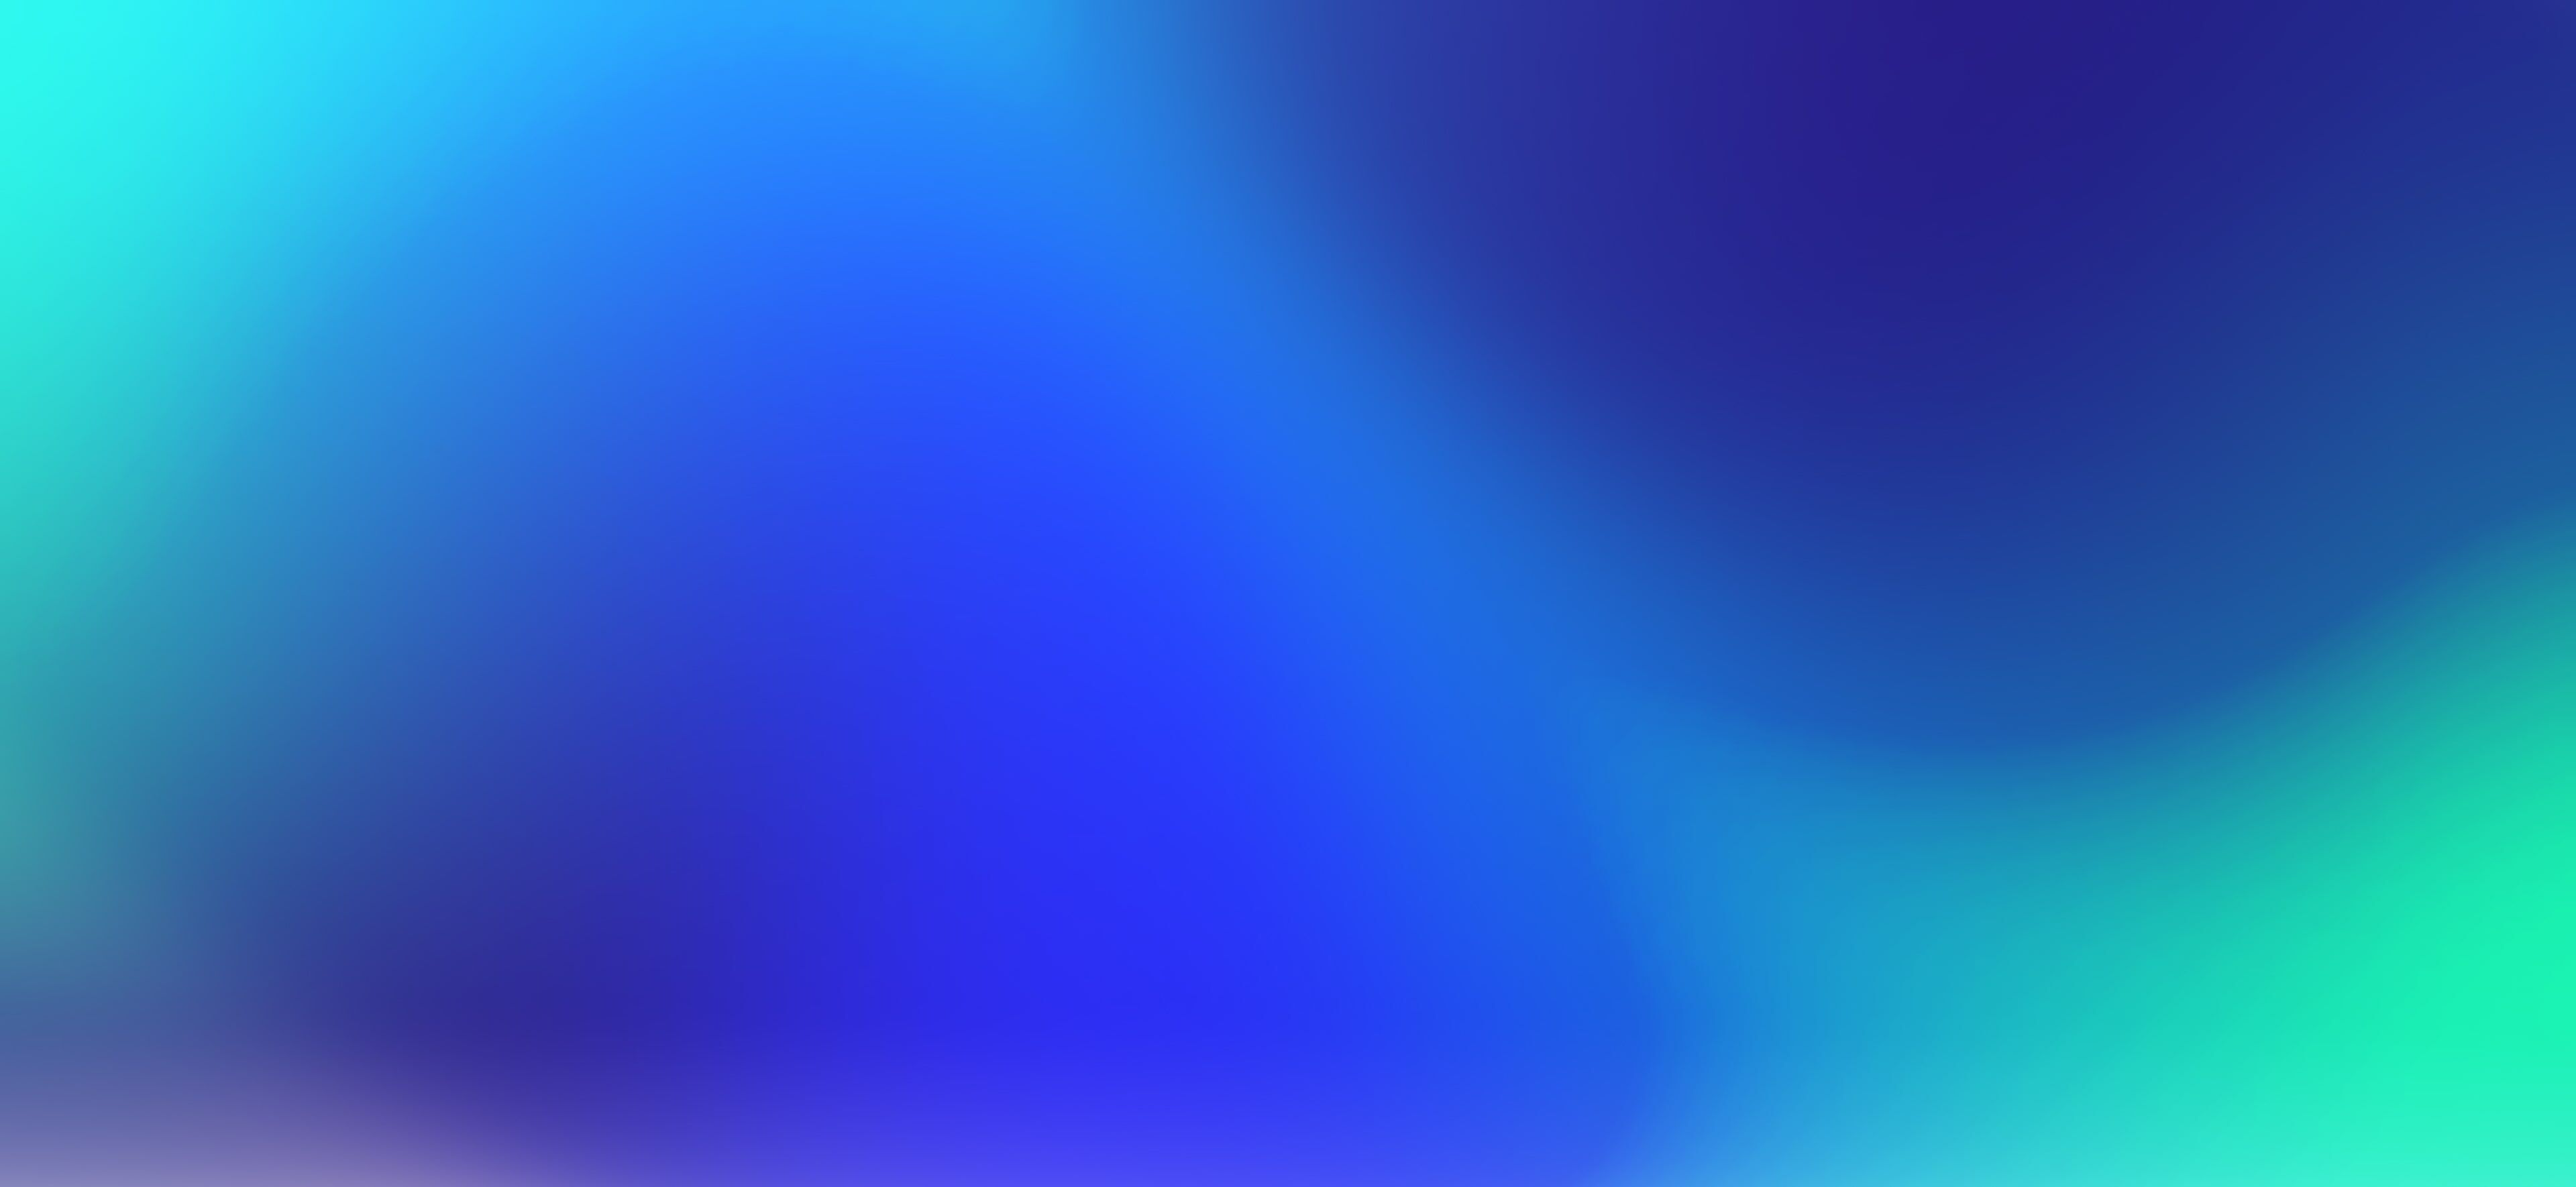
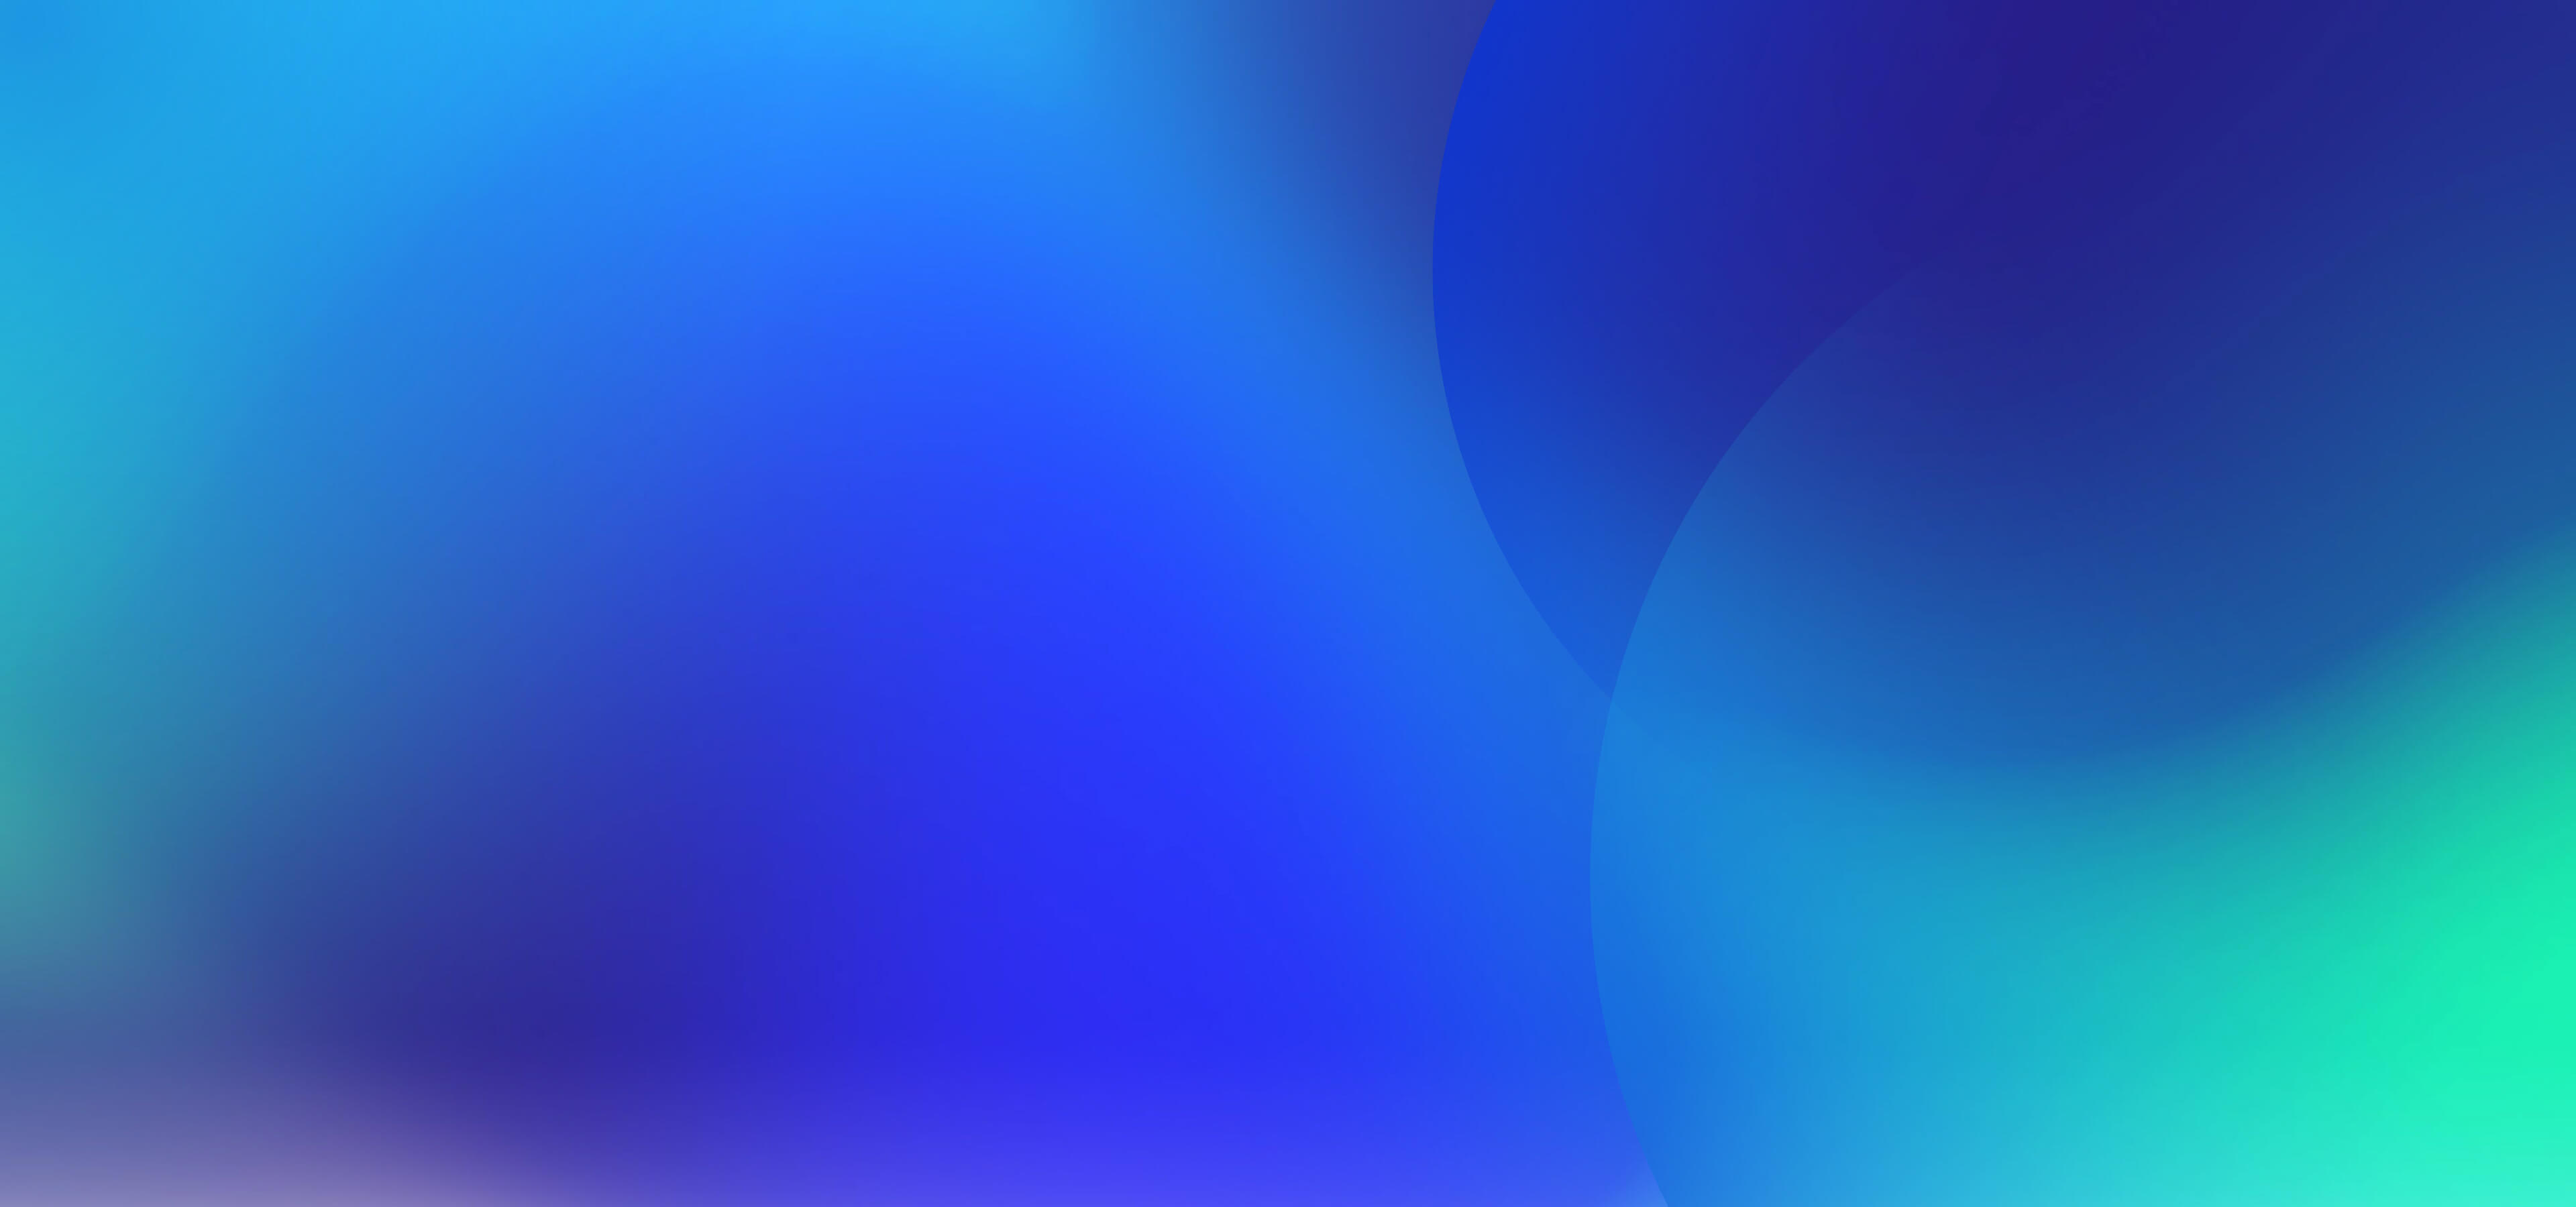
update veeam survey

Changed region(s): [[0.0, 0.0, 0.2188, 0.4661], [0.5312, 0.0, 0.6875, 0.2797], [0.6562, 0.9944, 0.75, 1.0]]

diff --git a/2023_Veeam_Cloud_Survey/style.css b/2023_Veeam_Cloud_Survey/style.css
@@ -23,7 +23,7 @@ body {
   position: absolute;
 }
 .full_wrap .bg .bgcnt.bc1 {
-  left: 0;
+  right: 0;
   top: 0;
   z-index: 5;
   width: 100%;
@@ -39,7 +39,7 @@ body {
   background: url("img/SVG/bgcnt2.svg") right center/cover no-repeat;
 }
 .full_wrap .bg .bgcnt.bc3 {
-  left: 0;
+  right: 0;
   bottom: 0;
   z-index: 2;
   width: 100%;
@@ -75,7 +75,7 @@ body {
   font-size: 1.675em;
   font-weight: 500;
   line-height: 1;
-  background: linear-gradient(120deg, #f4e891, #00b336 20%, #005f4b, #93ea20, #06fed1) 0 0/200% 100%;
+  background: linear-gradient(120deg, #fff, #4ddb87, #00d15f, #4ddb87, #fff) 0 0/200% 100%;
   color: #fff;
   font-family: "Ubuntu", "Noto Sans TC", sans-serif;
   -webkit-transition: background 300ms;
@@ -96,7 +96,7 @@ body {
   letter-spacing: 0.25em;
 }
 .cta .bttn:active {
-  background: #00655c;
+  background: #3d019e;
 }
 
 .g_kv {
@@ -105,31 +105,31 @@ body {
   background: linear-gradient(rgba(61, 1, 158, 0) 50%, rgba(61, 1, 158, 0.5));
   z-index: 2;
 }
-.g_kv .kv_desktop {
+.g_kv .kv {
   position: relative;
   height: 100vh;
 }
-.g_kv .kv_desktop img {
+.g_kv .kv img {
   display: block;
   max-width: 100%;
 }
-.g_kv .kv_desktop .kvlogo,
-.g_kv .kv_desktop .kvtit,
-.g_kv .kv_desktop .kvpic {
+.g_kv .kv .kvlogo,
+.g_kv .kv .kvtit,
+.g_kv .kv .kvpic {
   position: absolute;
   display: block;
 }
-.g_kv .kv_desktop .kvlogo {
+.g_kv .kv .kvlogo {
   left: 8.3333333333%;
   top: 9.2592592593%;
   width: 16.6666666667%;
 }
-.g_kv .kv_desktop .kvtit {
+.g_kv .kv .kvtit {
   left: 10%;
   top: 28%;
   width: 60%;
 }
-.g_kv .kv_desktop .kvpic {
+.g_kv .kv .kvpic {
   right: 5%;
   width: 36%;
   top: 50%;
@@ -242,7 +242,7 @@ body {
   -webkit-box-align: center;
       -ms-flex-align: center;
           align-items: center;
-  background-color: #00655c;
+  background: linear-gradient(135deg, #4ddb87 15%, #00d15f 15%, #00d15f 85%, #4ddb87 85%);
   color: #fff;
   border-radius: 6px;
 }
@@ -472,17 +472,22 @@ body {
 
 @media (max-width: 767px) {
   .full_wrap .bg .bgcnt.bc1 {
-    width: 125%;
-    padding-top: 100%;
+    right: -30%;
+    width: 200%;
+    padding-top: 160%;
   }
   .full_wrap .bg .bgcnt.bc2 {
-    top: 52vw;
-    width: 100%;
-    padding-top: 100%;
+    top: 60vw;
+    width: 150%;
+    padding-top: 150%;
   }
   .full_wrap .bg .bgcnt.bc3 {
-    width: 120%;
-    padding-top: 120%;
+    width: 150%;
+    padding-top: 150%;
+  }
+  .g_kv {
+    background: -webkit-gradient(linear, left top, left bottom, color-stop(50%, rgba(61, 1, 158, 0)), to(rgba(61, 1, 158, 0.7)));
+    background: linear-gradient(rgba(61, 1, 158, 0) 50%, rgba(61, 1, 158, 0.7));
   }
   .g_kv .kv_desktop {
     height: 60vh;
@@ -519,8 +524,8 @@ body {
     background: url("img/SVG/bgcnt3.svg") right bottom no-repeat;
   }
   .main_content {
-    background: -webkit-gradient(linear, left top, left bottom, from(rgba(61, 1, 158, 0.5)), color-stop(25%, rgba(61, 1, 158, 0.8)), color-stop(40%, rgba(61, 1, 158, 0.8)));
-    background: linear-gradient(rgba(61, 1, 158, 0.5), rgba(61, 1, 158, 0.8) 25%, rgba(61, 1, 158, 0.8) 40%);
+    background: -webkit-gradient(linear, left top, left bottom, from(rgba(61, 1, 158, 0.7)), color-stop(20%, rgba(61, 1, 158, 0.9)), color-stop(40%, rgba(61, 1, 158, 0.9)));
+    background: linear-gradient(rgba(61, 1, 158, 0.7), rgba(61, 1, 158, 0.9) 20%, rgba(61, 1, 158, 0.9) 40%);
   }
   .intro_wrap {
     padding: 40px 30px 0;
@@ -546,9 +551,9 @@ body {
     padding-left: 1rem;
   }
   .gift_wrap .pic {
-    padding-left: 30px;
+    padding-left: 60px;
     padding-top: 30px;
-    padding-right: 0;
+    padding-right: 20px;
   }
   .gift_wrap .pic img {
     width: 100%;

diff --git a/2023_Veeam_Cloud_Survey/index.html b/2023_Veeam_Cloud_Survey/index.html
@@ -6,9 +6,9 @@
     <meta name="viewport" content="width=device-width, initial-scale=1.0">
     <meta property="og:title" content="2023 雲端資料保護大調查">
     <meta property="og:type" content="article">
-    <meta property="og:url" content="https://www.digitimes.com.tw/seminar/Veeam_M365_Survey ">
-    <meta property="og:image" content="https://www.digitimes.com.tw/seminar/Veeam_M365_Survey/img/webtitle.jpg">
-    <meta property="og:description" content="Microsoft Office 365已是企業不可或缺的線上協作工具。然而，您所使用Office 36產品是否有做足資料保護與資安防護呢？立即參與「2023 Microsoft Office 365資料保護大健檢」，即可獲得《必須備份Microsoft 365資料的四大原因》與《Microsoft 365備份指南》技術白皮書，做為您制訂Microsoft 365備份計畫的參考方針。">
+    <meta property="og:url" content="https://www.digitimes.com.tw/seminar/veeam_20231023 ">
+    <meta property="og:image" content="https://www.digitimes.com.tw/seminar/veeam_20231023/img/webtitle.jpg">
+    <meta property="og:description" content="進入數位經濟時代，資料成為企業最珍貴資產，一旦損失資料、恐怕連營運都無以為繼，因此資料保護顯得至關重要。近年勒索軟體攻擊越演越烈，令許多企業猝不及防，也讓資料保護一事受到嚴峻考驗。此時若能做好備份，即可建立資料保護的最後防線，將災損減至最低。">
 	<title>2023 雲端資料保護大調查</title>
 	<link rel="stylesheet" href="https://stackpath.bootstrapcdn.com/bootstrap/4.1.3/css/bootstrap.min.css" integrity="sha384-MCw98/SFnGE8fJT3GXwEOngsV7Zt27NXFoaoApmYm81iuXoPkFOJwJ8ERdknLPMO" crossorigin="anonymous">
 	<link rel="stylesheet" href="https://unpkg.com/aos@2.3.1/dist/aos.css">
@@ -26,17 +26,17 @@
 		</div>
 		<div class="g_kv">
 			<!-- <div class="kv_desktop d-none d-lg-block"> -->
-			<div class="kv_desktop">
-				<img class="kvlogo" src="img/Veeam_Logo.svg" alt="DIGITIMES">
+			<div class="kv">
+				<img class="kvlogo" src="img/Veeam_Logo.svg" alt="veeam">
 				<div class="kvtit" data-aos="fade-up">
 					<img src="img/kv/kvtit.svg" alt="2023 雲端資料保護大調查">
 				</div>
 				<div class="kvpic" data-aos="fade-up" data-aos-delay="800">
 					<img src="img/kv/kvpic.png" alt="">
 				</div>
-			</div>
-			<div class="cta" data-aos="fade-up" data-aos-delay="400">
-				<a class="bttn" href="#primary"><span>立即填寫</span></a>
+				<!-- <div class="cta" data-aos="fade-up" data-aos-delay="400">
+					<a class="bttn" href="#primary"><span>立即填寫</span></a>
+				</div> -->
 			</div>
 		</div>
 		<div class="main">
@@ -71,8 +71,8 @@
 					</div>
 				</div>
 			</div>
-		
-			<div id="primary" class="form_wrap" data-aos="fade-up" data-aos-delay="300">
+			<div id="primary"></div>
+			<div class="form_wrap" data-aos="fade-up" data-aos-delay="300">
 				<div class="table_content pt-4">
 					<div class="table">
 						<div class="form_tit">

diff --git a/veeam_23Q4_microsite/style.css b/veeam_23Q4_microsite/style.css
@@ -352,8 +352,8 @@ a {
 }
 .key_visual .kv__logo {
   position: absolute;
-  left: 5.5%;
-  top: 0;
+  left: 5.5vw;
+  top: 5vw;
   z-index: 10;
   width: 13.5%;
 }
@@ -1633,7 +1633,7 @@ a {
   vertical-align: middle;
 }
 .line_wrap .logo img {
-  height: 40px;
+  height: 50px;
 }
 .line_wrap .text {
   margin-left: 1rem;
